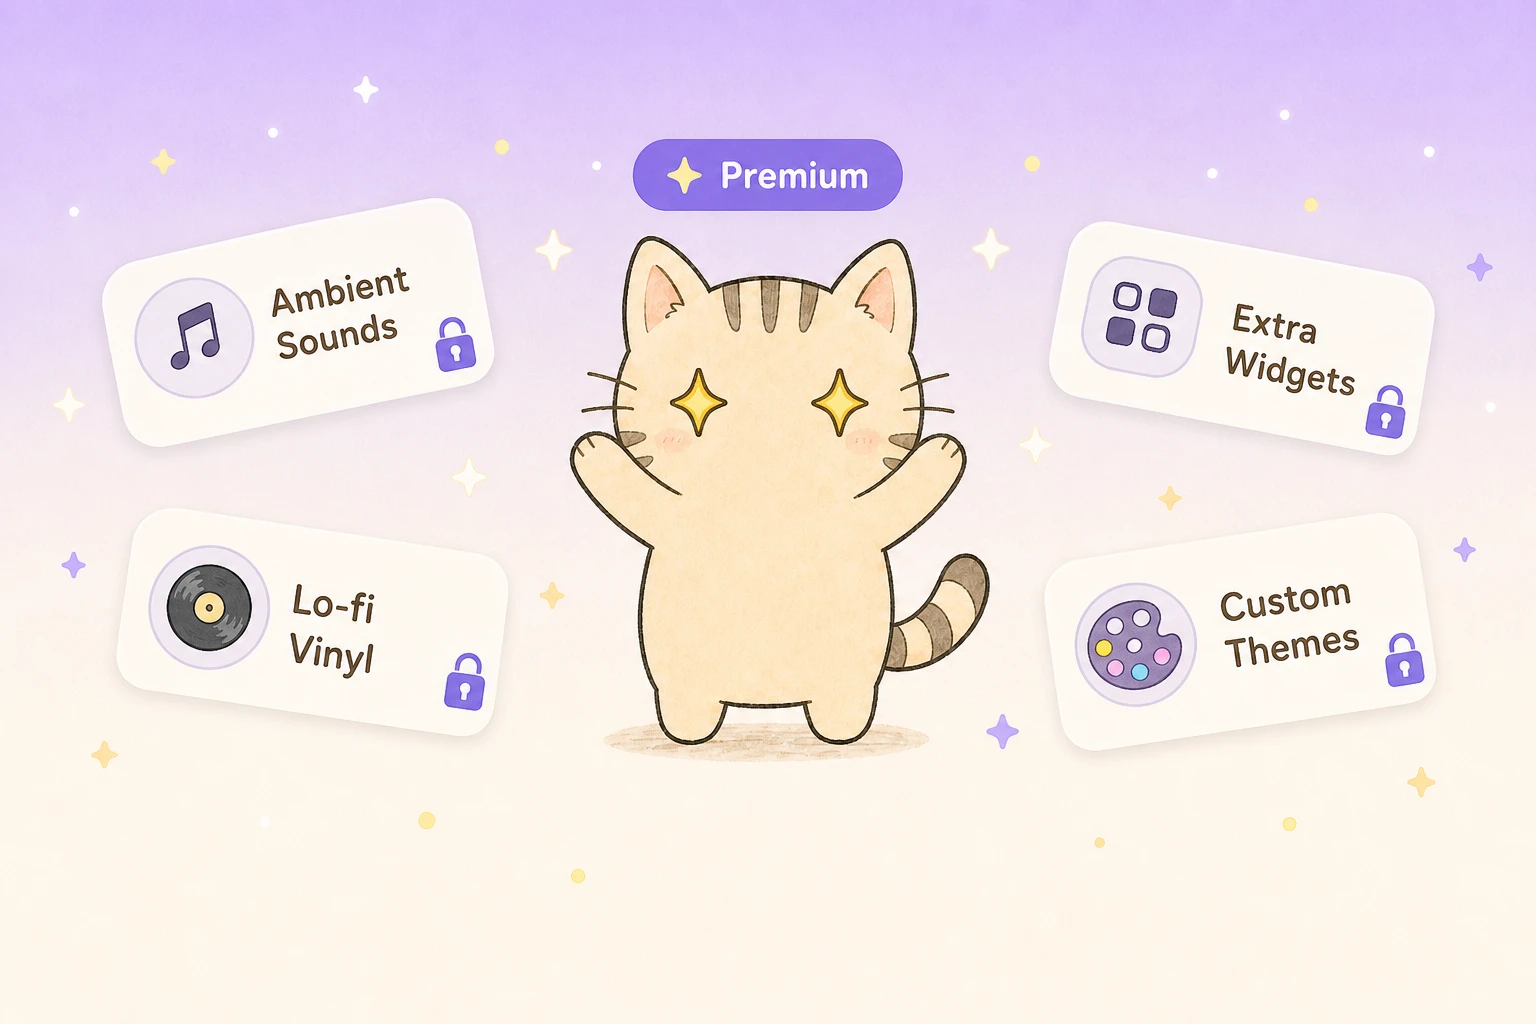
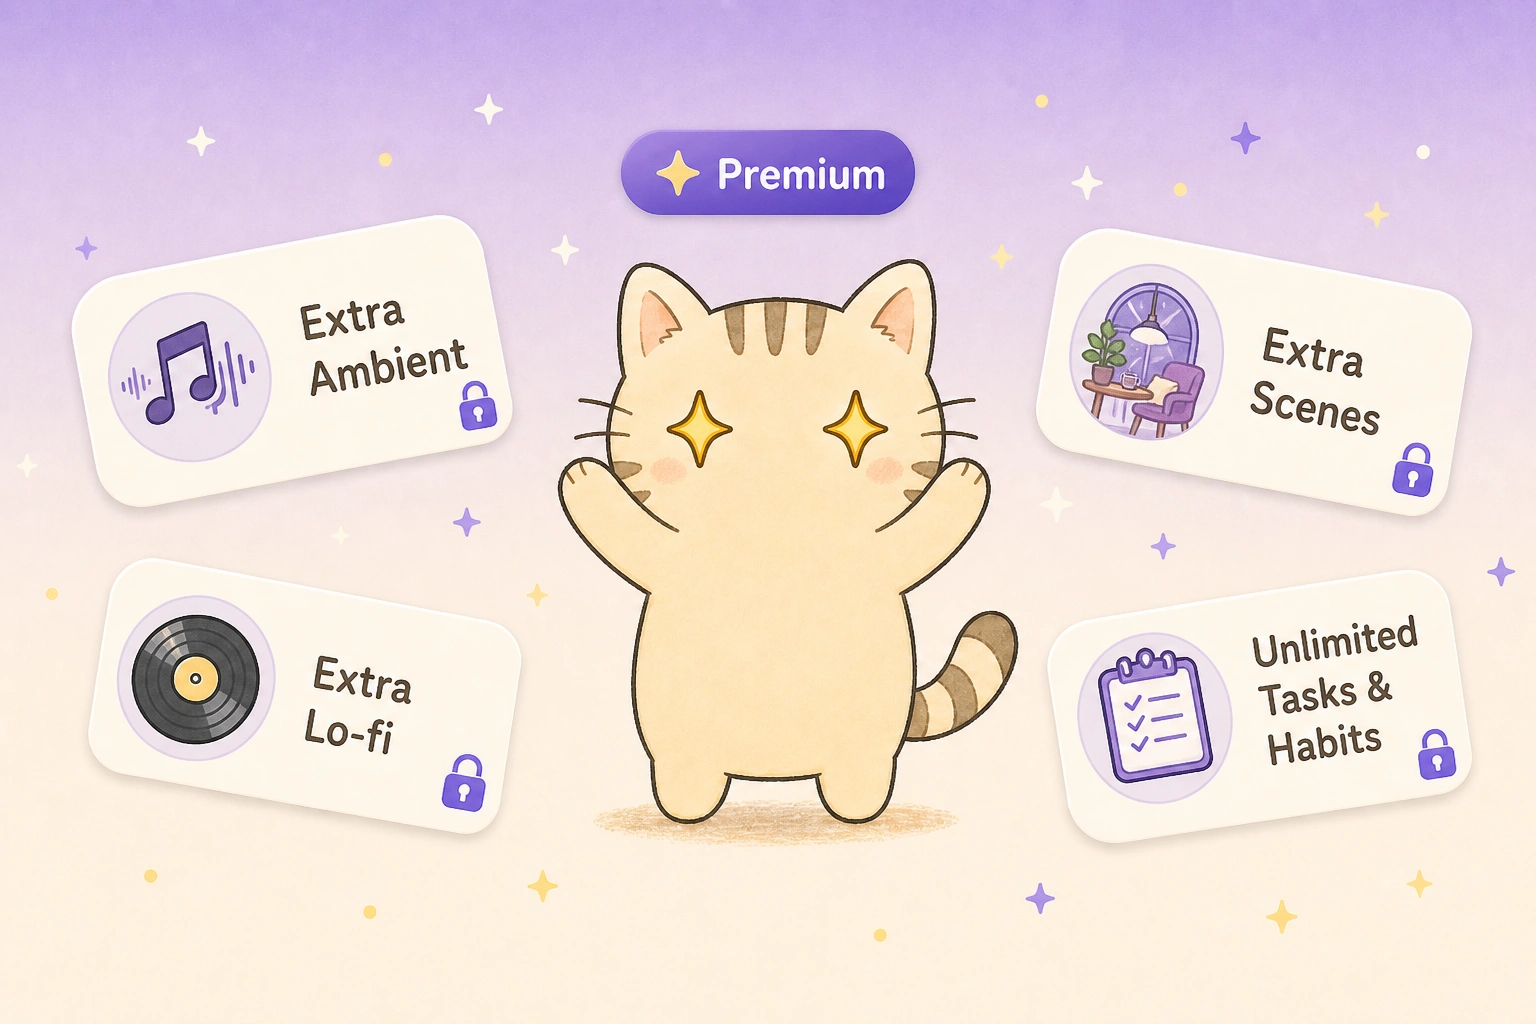
fix(android): update premium header art and harden bundled soundscape lookup
Replace the paywall hero with perks that match the shipped model, and stop
crashing when catalog rawResource names drift from the APK registry.

diff --git a/purrodoro-android/app/src/main/java/com/endiar/purrodoro/soundscape/SoundscapeCatalogBuilder.kt b/purrodoro-android/app/src/main/java/com/endiar/purrodoro/soundscape/SoundscapeCatalogBuilder.kt
@@ -30,14 +30,15 @@ object SoundscapeCatalogBuilder {
         bundledDefaults: List<BundledTrackDefault> = BundledTrackRegistry.defaults,
     ): List<SoundOption> {
         val bundled = mergeBundled("ambience", bundledRows, bundledDefaults)
-            .map { (def, row) ->
+            .mapNotNull { (def, row) ->
+                val resId = rawResIdFor(row, def) ?: return@mapNotNull null
                 SoundOption(
                     id = def.localId,
                     name = row?.name?.takeIf { it.isNotBlank() } ?: nameFor(row, def),
                     description = row?.artist?.takeIf { it.isNotBlank() } ?: subtitleFor(row, def),
                     locked = row?.isPremium ?: def.defaultPremium,
                     symbol = row?.symbol?.takeIf { it.isNotBlank() } ?: def.symbol,
-                    audio = AudioSource.Bundled(rawResIdFor(row, def)),
+                    audio = AudioSource.Bundled(resId),
                     remote = null,
                 )
             }
@@ -63,12 +64,13 @@ object SoundscapeCatalogBuilder {
         bundledDefaults: List<BundledTrackDefault> = BundledTrackRegistry.defaults,
     ): List<MusicOption> {
         val bundled = mergeBundled("music", bundledRows, bundledDefaults)
-            .map { (def, row) ->
+            .mapNotNull { (def, row) ->
+                val resId = rawResIdFor(row, def) ?: return@mapNotNull null
                 MusicOption(
                     id = def.localId,
                     name = row?.name?.takeIf { it.isNotBlank() } ?: nameFor(row, def),
                     artist = row?.artist?.takeIf { it.isNotBlank() } ?: subtitleFor(row, def),
-                    audio = AudioSource.Bundled(rawResIdFor(row, def)),
+                    audio = AudioSource.Bundled(resId),
                     locked = row?.isPremium ?: def.defaultPremium,
                     remote = null,
                 )
@@ -108,8 +110,8 @@ object SoundscapeCatalogBuilder {
             .sortedBy { (def, row) -> row?.sortOrder ?: def.sortOrder }
     }
 
-    private fun rawResIdFor(row: SoundscapeBundledEntity?, def: BundledTrackDefault): Int =
-        BundledTrackRegistry.rawResId(row?.rawResource?.takeIf { it.isNotBlank() } ?: def.rawResource)
+    private fun rawResIdFor(row: SoundscapeBundledEntity?, def: BundledTrackDefault): Int? =
+        BundledTrackRegistry.resolveRawResId(row?.rawResource, def.rawResource)
 
     private fun stateFor(row: SoundscapeTrackEntity, states: Map<Int, DownloadState>): DownloadState =
         states[row.id] ?: DownloadState.NotDownloaded

diff --git a/purrodoro-android/app/src/test/java/com/endiar/purrodoro/soundscape/SoundscapeCatalogBuilderTest.kt b/purrodoro-android/app/src/test/java/com/endiar/purrodoro/soundscape/SoundscapeCatalogBuilderTest.kt
@@ -134,6 +134,46 @@ class SoundscapeCatalogBuilderTest {
     }
 
     @Test
+    fun `unknown catalog rawResource falls back to registry default`() {
+        val row = SoundscapeBundledEntity(
+            kind = "ambience",
+            localId = 1,
+            name = "",
+            artist = "",
+            symbol = "",
+            rawResource = "stale_server_name",
+            isPremium = false,
+            sortOrder = 10,
+            isActive = true,
+        )
+        val options = SoundscapeCatalogBuilder.buildAmbienceOptions(
+            bundledRows = listOf(row),
+            remoteRows = emptyList(),
+            downloadStates = emptyMap(),
+            localPaths = emptyMap(),
+            nameFor = { _, _ -> "name" },
+            subtitleFor = { _, _ -> "sub" },
+            bundledDefaults = listOf(rainDefault),
+        )
+        assertEquals(AudioSource.Bundled(R.raw.ambience_rain), options.single().audio)
+    }
+
+    @Test
+    fun `bundled track omitted when no raw resource resolves`() {
+        val unmappedDefault = rainDefault.copy(rawResource = "does_not_exist")
+        val options = SoundscapeCatalogBuilder.buildAmbienceOptions(
+            bundledRows = emptyList(),
+            remoteRows = emptyList(),
+            downloadStates = emptyMap(),
+            localPaths = emptyMap(),
+            nameFor = { _, _ -> "name" },
+            subtitleFor = { _, _ -> "sub" },
+            bundledDefaults = listOf(unmappedDefault, cafeDefault),
+        )
+        assertEquals(listOf(2), options.map { it.id })
+    }
+
+    @Test
     fun `bundled tracks render before remote tracks`() {
         val options = SoundscapeCatalogBuilder.buildMusicOptions(
             bundledRows = emptyList(),

diff --git a/purrodoro-android/app/src/main/java/com/endiar/purrodoro/soundscape/BundledTrackRegistry.kt b/purrodoro-android/app/src/main/java/com/endiar/purrodoro/soundscape/BundledTrackRegistry.kt
@@ -51,7 +51,22 @@ object BundledTrackRegistry {
         "lofi_midnight_whisper_matrika" to R.raw.lofi_midnight_whisper_matrika,
     )
 
+    /** Lookup a bundled `res/raw` id, or null when [rawResource] is unknown. */
+    fun rawResIdOrNull(rawResource: String): Int? =
+        rawByName[rawResource.trim()]
+
+    /**
+     * Resolve audio for a bundled track. Tries the catalog/server [requested] name
+     * first (trimmed), then the APK registry [fallback]. Handles stale catalog rows
+     * that reference renamed or not-yet-shipped raw files without crashing.
+     */
+    fun resolveRawResId(requested: String?, fallback: String): Int? {
+        val override = requested?.trim()?.takeIf { it.isNotEmpty() }
+        return override?.let { rawResIdOrNull(it) } ?: rawResIdOrNull(fallback)
+    }
+
     @RawRes
     fun rawResId(rawResource: String): Int =
-        rawByName[rawResource] ?: error("Unknown bundled raw resource: $rawResource")
+        rawResIdOrNull(rawResource)
+            ?: error("Unknown bundled raw resource: $rawResource")
 }

diff --git a/purrodoro-android/app/src/test/java/com/endiar/purrodoro/soundscape/BundledTrackRegistryTest.kt b/purrodoro-android/app/src/test/java/com/endiar/purrodoro/soundscape/BundledTrackRegistryTest.kt
@@ -12,6 +12,30 @@ class BundledTrackRegistryTest {
     }
 
     @Test
+    fun `resolveRawResId falls back when catalog name is unknown`() {
+        assertEquals(
+            R.raw.ambience_rain,
+            BundledTrackRegistry.resolveRawResId("stale_server_name", "ambience_rain"),
+        )
+    }
+
+    @Test
+    fun `resolveRawResId trims whitespace on catalog name`() {
+        assertEquals(
+            R.raw.ambience_rain,
+            BundledTrackRegistry.resolveRawResId("  ambience_rain  ", "ambience_cafe"),
+        )
+    }
+
+    @Test
+    fun `resolveRawResId returns null when neither name resolves`() {
+        assertEquals(
+            null,
+            BundledTrackRegistry.resolveRawResId("missing", "also_missing"),
+        )
+    }
+
+    @Test
     fun `defaults include six ambience and three music tracks`() {
         assertEquals(6, BundledTrackRegistry.defaults.count { it.kind == "ambience" })
         assertEquals(3, BundledTrackRegistry.defaults.count { it.kind == "music" })
